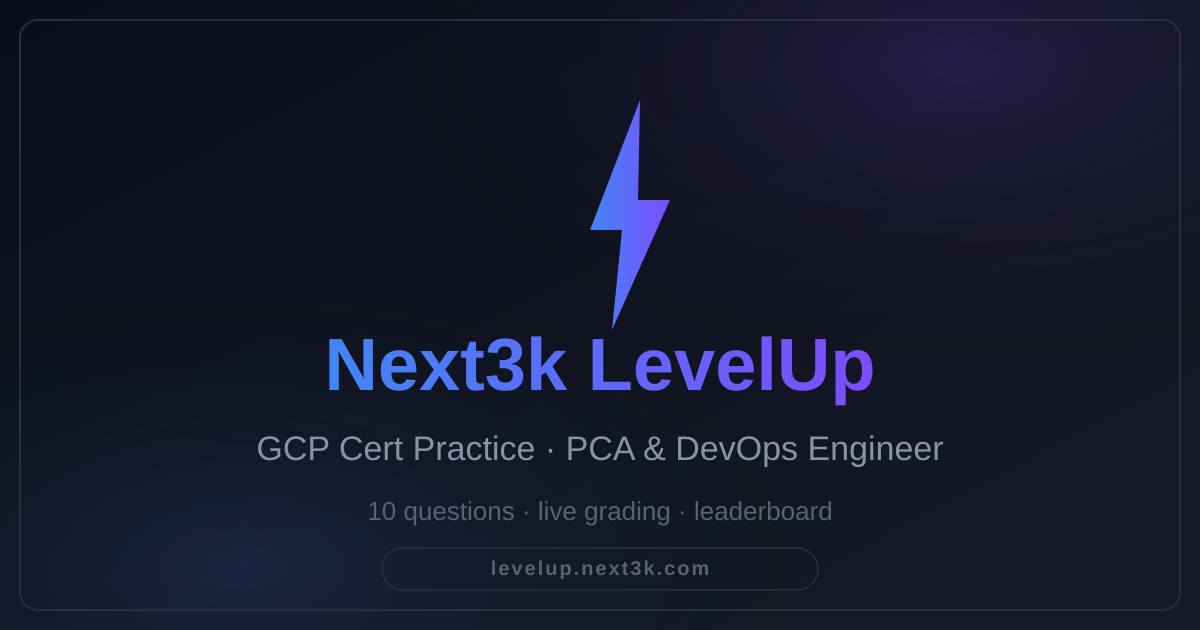
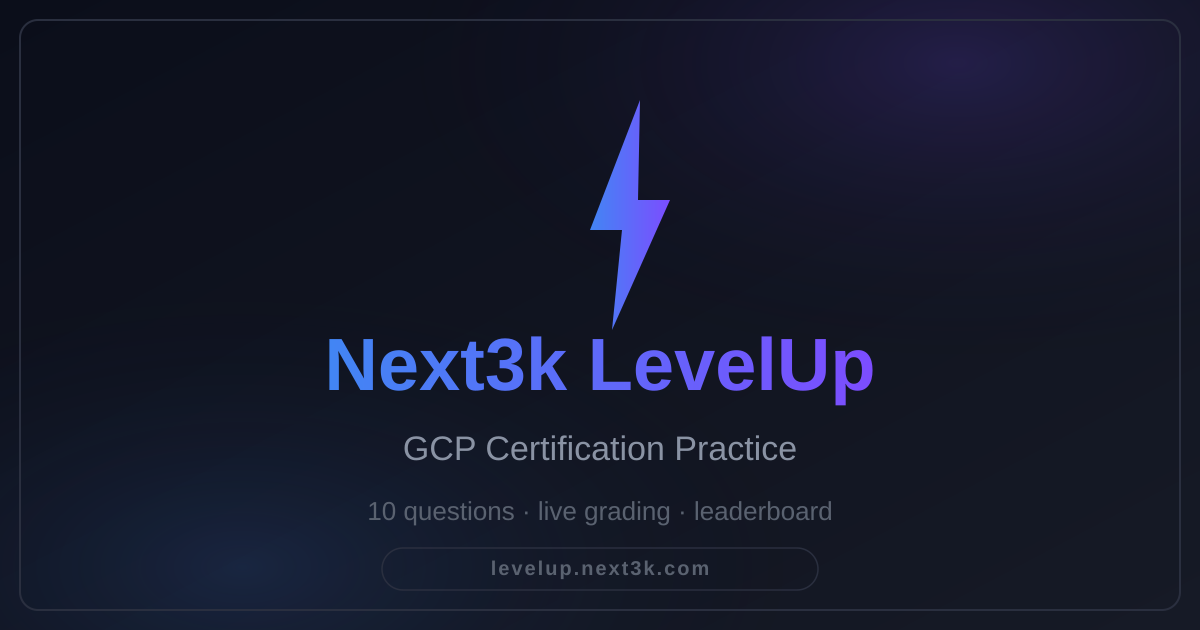
fix copy, PCA becomes Architect, other minor copy fixes

Changed region(s): [[0.2158, 0.6937, 0.8017, 0.754]]

diff --git a/practice-app/backend/app/static/index.html b/practice-app/backend/app/static/index.html
@@ -6,11 +6,11 @@
     <title>Next3k LevelUp — GCP Cert Practice</title>
     <link rel="icon" type="image/svg+xml" href="/static/favicon.svg" />
     <!-- Social / unfurl meta -->
-    <meta name="description" content="10 scenario questions. Live grading. Real exam topics. Practice for the GCP Professional Cloud Architect and DevOps Engineer certifications. Climb the leaderboard." />
+    <meta name="description" content="GCP cert practice for Professional Cloud Architect, DevOps Engineer, and Generative AI. Classic, Progressive, and Arcade timed sprint modes. Live grading, streaks, and leaderboard." />
     <meta property="og:type" content="website" />
     <meta property="og:url" content="https://levelup.next3k.com" />
     <meta property="og:title" content="Next3k LevelUp — GCP Cert Practice" />
-    <meta property="og:description" content="10 scenario questions. Live grading. Real exam topics. PCA + DevOps Engineer. Climb the leaderboard." />
+    <meta property="og:description" content="GCP cert practice — Architect, DevOps Engineer, and Generative AI. Classic, Progressive, and Arcade modes. Climb the leaderboard." />
     <meta property="og:image" content="https://levelup.next3k.com/static/og-image.png" />
     <meta property="og:image:type" content="image/png" />
     <meta property="og:image:width" content="1200" />
@@ -18,7 +18,7 @@
     <meta property="og:image:alt" content="Next3k LevelUp — GCP Cert Practice" />
     <meta name="twitter:card" content="summary_large_image" />
     <meta name="twitter:title" content="Next3k LevelUp — GCP Cert Practice" />
-    <meta name="twitter:description" content="10 scenario questions. Live grading. Real exam topics. PCA + DevOps Engineer." />
+    <meta name="twitter:description" content="GCP cert practice — Architect, DevOps Engineer, and Generative AI. Classic, Progressive, and Arcade modes." />
     <meta name="twitter:image" content="https://levelup.next3k.com/static/og-image.png" />
     <meta name="twitter:image:alt" content="Next3k LevelUp — GCP Cert Practice" />
     <!-- Google tag (gtag.js) -->
@@ -29,7 +29,7 @@
       gtag('js', new Date());
       gtag('config', 'G-MRKH534Q3Z');
     </script>
-    <link rel="stylesheet" href="/static/styles.css?v=7" />
+    <link rel="stylesheet" href="/static/styles.css?v=9" />
   </head>
   <body>
     <header>
@@ -59,7 +59,7 @@
             <div class="mode-tabs" id="mode-tabs" role="tablist" aria-label="Game mode">
               <button data-mode="classic" class="active" type="button">📝 Classic <span class="mode-sub">10 questions</span></button>
               <button data-mode="progressive" type="button">📈 Progressive <span class="mode-sub">3 strikes</span></button>
-              <button data-mode="arcade" type="button">⚡ Arcade <span class="mode-sub">2-min sprint</span></button>
+              <button data-mode="arcade" type="button">⚡ Arcade <span class="mode-sub">timed sprint</span></button>
             </div>
 
             <div class="hero-cta">
@@ -70,7 +70,7 @@
             <div class="hero-switch" id="exam-switch">
               <label class="muted small">Exam:</label>
               <div class="seg" id="exam-seg">
-                <button data-exam="pca" class="active" type="button">Cloud Architect</button>
+                <button data-exam="architect" class="active" type="button">Cloud Architect</button>
                 <button data-exam="devops" type="button">DevOps Engineer</button>
                 <button data-exam="genai" type="button">Gen AI Leader</button>
               </div>
@@ -295,7 +295,7 @@
           <button class="tab" data-lb-mode="arcade" type="button">⚡ Arcade</button>
         </div>
         <div class="tabs" id="lb-exam-tabs">
-          <button class="tab active" data-exam="pca" type="button">Cloud Architect</button>
+          <button class="tab active" data-exam="architect" type="button">Cloud Architect</button>
           <button class="tab" data-exam="devops" type="button">DevOps Engineer</button>
           <button class="tab" data-exam="genai" type="button">Gen AI Leader</button>
         </div>
@@ -307,6 +307,6 @@
       </section>
     </main>
 
-    <script src="/static/app.js?v=7"></script>
+    <script src="/static/app.js?v=9"></script>
   </body>
 </html>

diff --git a/practice-app/backend/app/static/app.js b/practice-app/backend/app/static/app.js
@@ -14,7 +14,7 @@ function trackEvent(name, params = {}) {
 }
 
 const state = {
-  exam: "pca",                  // current exam selected on the start screen
+  exam: "architect",                  // current exam selected on the start screen
   mode: "classic",              // 'classic' | 'progressive' | 'arcade'
   sessionId: null,
   total: 0,
@@ -209,7 +209,7 @@ function updateHeroSub() {
   if (state.mode === "progressive") {
     sub.innerHTML = "<strong>Progressive:</strong> 3 strikes, mixed exams, ladder difficulty. 1 / 2 / 4 pts.";
   } else if (state.mode === "arcade") {
-    sub.innerHTML = "<strong>Arcade:</strong> 2 minutes. Correct answers add points + time. Level up every 10.";
+    sub.innerHTML = "<strong>Arcade:</strong> 60-second sprint. Correct answers add points + time. Wrong answers cost 10s. Level up every 10.";
   } else {
     sub.innerHTML = "Defaults to <strong>Cloud Architect</strong> · 10 questions · medium difficulty.";
   }
@@ -1132,7 +1132,7 @@ async function onAltSubmitScore() {
 
 async function loadActiveLeaderboard() {
   if (state.lbMode === "classic") {
-    const exam = document.querySelector("#lb-exam-tabs .tab.active")?.dataset.exam || "pca";
+    const exam = document.querySelector("#lb-exam-tabs .tab.active")?.dataset.exam || "architect";
     return loadLeaderboard(exam);
   }
   if (state.lbMode === "progressive") return loadProgressiveLeaderboard();

diff --git a/practice-app/backend/tests/test_api.py b/practice-app/backend/tests/test_api.py
@@ -14,7 +14,7 @@ from fastapi.testclient import TestClient
 
 Q1 = {
     "id": "pca-1.1-001",
-    "exam": "pca",
+    "exam": "architect",
     "section": "PCA-1.1",
     "difficulty": "medium",
     "text": "Which service provides managed relational DB?",
@@ -26,7 +26,7 @@ Q1 = {
 
 Q2 = {
     "id": "pca-1.2-001",
-    "exam": "pca",
+    "exam": "architect",
     "section": "PCA-1.2",
     "difficulty": "hard",
     "text": "Best compute for short-lived event-driven workloads?",
@@ -62,15 +62,15 @@ def test_health(client):
 # /api/exams
 # ---------------------------------------------------------------------------
 
-def test_exams_lists_pca(client):
+def test_exams_lists_architect(client):
     r = client.get("/api/exams")
     assert r.status_code == 200
     exams = {e["id"]: e for e in r.json()["exams"]}
-    assert "pca" in exams
+    assert "architect" in exams
     # Section titles should be human-readable, not raw codes
-    pca_titles = [s["title"] for s in exams["pca"]["sections"]]
-    assert any("Compliance" in t for t in pca_titles)
-    assert any("compute" in t.lower() for t in pca_titles)
+    arch_titles = [s["title"] for s in exams["architect"]["sections"]]
+    assert any("Compliance" in t for t in arch_titles)
+    assert any("compute" in t.lower() for t in arch_titles)
 
 
 def test_exams_devops_sections_have_titles(client):
@@ -98,7 +98,7 @@ def test_exams_devops_sections_have_titles(client):
 # POST /api/sessions  →  answer  →  summary
 # ---------------------------------------------------------------------------
 
-def _start_session(client, n=2, exam="pca"):
+def _start_session(client, n=2, exam="architect"):
     return client.post("/api/sessions", json={
         "exam": exam, "num_questions": n,
         "sections": None, "difficulties": None,
@@ -112,7 +112,7 @@ def test_start_session_returns_first_question(client):
     assert "session_id" in body
     assert body["total"] == 2
     fq = body["first_question"]
-    assert fq["exam"] == "pca"
+    assert fq["exam"] == "architect"
     assert len(fq["options"]) == 4
     # correct_index must never appear in the client response
     assert "correct_index" not in fq
@@ -120,7 +120,7 @@ def test_start_session_returns_first_question(client):
 
 def test_start_session_no_questions_raises_400(client):
     r = client.post("/api/sessions", json={
-        "exam": "pca", "num_questions": 5,
+        "exam": "architect", "num_questions": 5,
         "sections": ["PCA-NONEXISTENT"], "difficulties": None,
     })
     assert r.status_code == 400
@@ -214,7 +214,7 @@ def test_report_card_next_session_config_is_postable(client):
 # ---------------------------------------------------------------------------
 
 def test_leaderboard_empty(client):
-    r = client.get("/api/leaderboard/pca")
+    r = client.get("/api/leaderboard/architect")
     assert r.status_code == 200
     assert r.json()["entries"] == []
 
@@ -242,10 +242,10 @@ def test_submit_score_and_appears_on_leaderboard(client):
     assert r_score.status_code == 200
     entry = r_score.json()
     assert entry["player_name"] == "Testy McTestface"
-    assert entry["exam"] == "pca"
+    assert entry["exam"] == "architect"
     assert isinstance(entry["score_pct"], float)
 
-    lb = client.get("/api/leaderboard/pca").json()
+    lb = client.get("/api/leaderboard/architect").json()
     names = [e["player_name"] for e in lb["entries"]]
     assert "Testy McTestface" in names
 
@@ -267,7 +267,7 @@ def test_submit_score_idempotent(client):
     client.post(f"/api/sessions/{sid}/score", json={"player_name": "Dup"})
     client.post(f"/api/sessions/{sid}/score", json={"player_name": "Dup"})
 
-    lb = client.get("/api/leaderboard/pca").json()
+    lb = client.get("/api/leaderboard/architect").json()
     dup_entries = [e for e in lb["entries"] if e["player_name"] == "Dup"]
     assert len(dup_entries) == 1, "Duplicate score entries should be deduplicated"
 

diff --git a/practice-app/backend/tests/test_progressive_unit.py b/practice-app/backend/tests/test_progressive_unit.py
@@ -39,7 +39,7 @@ def test_percentile_after_some_scores(fake_db):
     assert _percentile(20) == 66.7
 
 
-def _seed_qs(db, exams=("pca",), difficulties=("easy", "medium", "hard"), per=2):
+def _seed_qs(db, exams=("architect",), difficulties=("easy", "medium", "hard"), per=2):
     """Seed N questions per (exam, difficulty)."""
     n = 0
     for exam in exams:
@@ -59,7 +59,7 @@ def _seed_qs(db, exams=("pca",), difficulties=("easy", "medium", "hard"), per=2)
 def test_pick_one_question_filters_by_difficulty(fake_db):
     _seed_qs(fake_db)
     from app.questions import pick_one_question
-    q = pick_one_question(["pca"], "hard", [])
+    q = pick_one_question(["architect"], "hard", [])
     assert q is not None
     assert q.difficulty == "hard"
 
@@ -67,18 +67,18 @@ def test_pick_one_question_filters_by_difficulty(fake_db):
 def test_pick_one_question_returns_none_when_exhausted(fake_db):
     _seed_qs(fake_db, difficulties=("easy",), per=1)
     from app.questions import pick_one_question
-    q = pick_one_question(["pca"], "hard", [])
+    q = pick_one_question(["architect"], "hard", [])
     assert q is None
 
 
 def test_count_questions_excludes_served(fake_db):
     _seed_qs(fake_db, difficulties=("hard",), per=3)
     from app.questions import count_questions
-    assert count_questions(["pca"], "hard", []) == 3
-    assert count_questions(["pca"], "hard", ["pca-hard-000", "pca-hard-001"]) == 1
+    assert count_questions(["architect"], "hard", []) == 3
+    assert count_questions(["architect"], "hard", ["architect-hard-000", "architect-hard-001"]) == 1
 
 
 def test_list_exams_is_dynamic(fake_db):
-    _seed_qs(fake_db, exams=("pca", "devops", "aws-saa"))
+    _seed_qs(fake_db, exams=("architect", "devops", "aws-saa"))
     from app.questions import list_exams
-    assert list_exams() == ["aws-saa", "devops", "pca"]
+    assert list_exams() == ["architect", "aws-saa", "devops"]

diff --git a/practice-app/backend/app/main.py b/practice-app/backend/app/main.py
@@ -162,10 +162,10 @@ def exams() -> dict:
     return {
         "exams": [
             {
-                "id": "pca",
+                "id": "architect",
                 "name": "Professional Cloud Architect",
-                "sections": _sections_with_titles("pca"),
-                "difficulties": list_difficulties("pca"),
+                "sections": _sections_with_titles("architect"),
+                "difficulties": list_difficulties("architect"),
             },
             {
                 "id": "devops",
@@ -258,8 +258,8 @@ def submit_score(sid: str, req: SubmitScoreRequest) -> ScoreEntry:
 
 @app.get("/api/leaderboard/{exam}", response_model=LeaderboardResponse)
 def leaderboard(exam: str, limit: int = 20) -> LeaderboardResponse:
-    if exam not in ("pca", "devops", "genai"):
-        raise HTTPException(400, "exam must be 'pca', 'devops', or 'genai'")
+    if exam not in ("architect", "devops", "genai"):
+        raise HTTPException(400, "exam must be 'architect', 'devops', or 'genai'")
     return sessions_svc.leaderboard(exam, min(limit, 100))
 
 

diff --git a/practice-app/backend/tests/test_progressive_api.py b/practice-app/backend/tests/test_progressive_api.py
@@ -5,7 +5,7 @@ import pytest
 from fastapi.testclient import TestClient
 
 
-def _seed(db, exams=("pca", "devops", "genai"),
+def _seed(db, exams=("architect", "devops", "genai"),
           difficulties=("easy", "medium", "hard"), per=4):
     for exam in exams:
         for diff in difficulties:
@@ -155,7 +155,7 @@ def test_leaderboard_separate_from_classic(client):
             break
         qid = d["next_question"]["id"]
     client.post(f"/api/progressive/sessions/{sid}/score", json={"player_name": "ProgOnly"})
-    classic_lb = client.get("/api/leaderboard/pca").json()
+    classic_lb = client.get("/api/leaderboard/architect").json()
     names = [e["player_name"] for e in classic_lb["entries"]]
     assert "ProgOnly" not in names
 

diff --git a/practice-app/backend/tests/test_unit.py b/practice-app/backend/tests/test_unit.py
@@ -68,7 +68,7 @@ def test_title_for(code, expected_fragment):
 
 def test_question_for_client_has_no_correct_index():
     q = QuestionForClient(
-        id="q1", exam="pca", section="PCA-1.1", section_title="Compliance",
+        id="q1", exam="architect", section="PCA-1.1", section_title="Compliance",
         difficulty="medium", text="?", options=["A", "B", "C", "D"],
     )
     assert not hasattr(q, "correct_index")
@@ -78,7 +78,7 @@ def test_question_for_client_has_no_correct_index():
 def test_question_for_client_strips_extra_fields():
     """Pydantic should not pass extra fields through to the client model."""
     data = dict(
-        id="q1", exam="pca", section="PCA-1.1", section_title="Compliance",
+        id="q1", exam="architect", section="PCA-1.1", section_title="Compliance",
         difficulty="medium", text="?", options=["A", "B", "C", "D"],
         correct_index=2, explanation="secret",
     )

diff --git a/practice-app/backend/app/models.py b/practice-app/backend/app/models.py
@@ -6,7 +6,7 @@ from typing import Literal
 from pydantic import BaseModel, Field
 
 
-Exam = Literal["pca", "devops", "genai"]
+Exam = Literal["architect", "devops", "genai"]
 Difficulty = Literal["easy", "medium", "hard"]
 Confidence = Literal["confident", "narrowed", "guess"]
 SessionMode = Literal["classic", "progressive", "arcade"]

diff --git a/practice-app/backend/app/seed_emulator.py b/practice-app/backend/app/seed_emulator.py
@@ -1,6 +1,6 @@
 """One-shot seeder: load all seed/*.json files into Firestore.
 
-Each exam lives in its own file (pca.json, devops.json, genai.json …).
+Each exam lives in its own file (architect.json, devops.json, genai.json …).
 Files whose name starts with an underscore are skipped (migration helpers).
 
 Idempotent: docs are written with their natural ID so re-runs overwrite

diff --git a/practice-app/backend/tests/test_arcade_api.py b/practice-app/backend/tests/test_arcade_api.py
@@ -5,7 +5,7 @@ import pytest
 from fastapi.testclient import TestClient
 
 
-def _seed(db, exams=("pca", "devops", "genai"),
+def _seed(db, exams=("architect", "devops", "genai"),
           difficulties=("easy", "medium", "hard"), per=10):
     for exam in exams:
         for diff in difficulties: